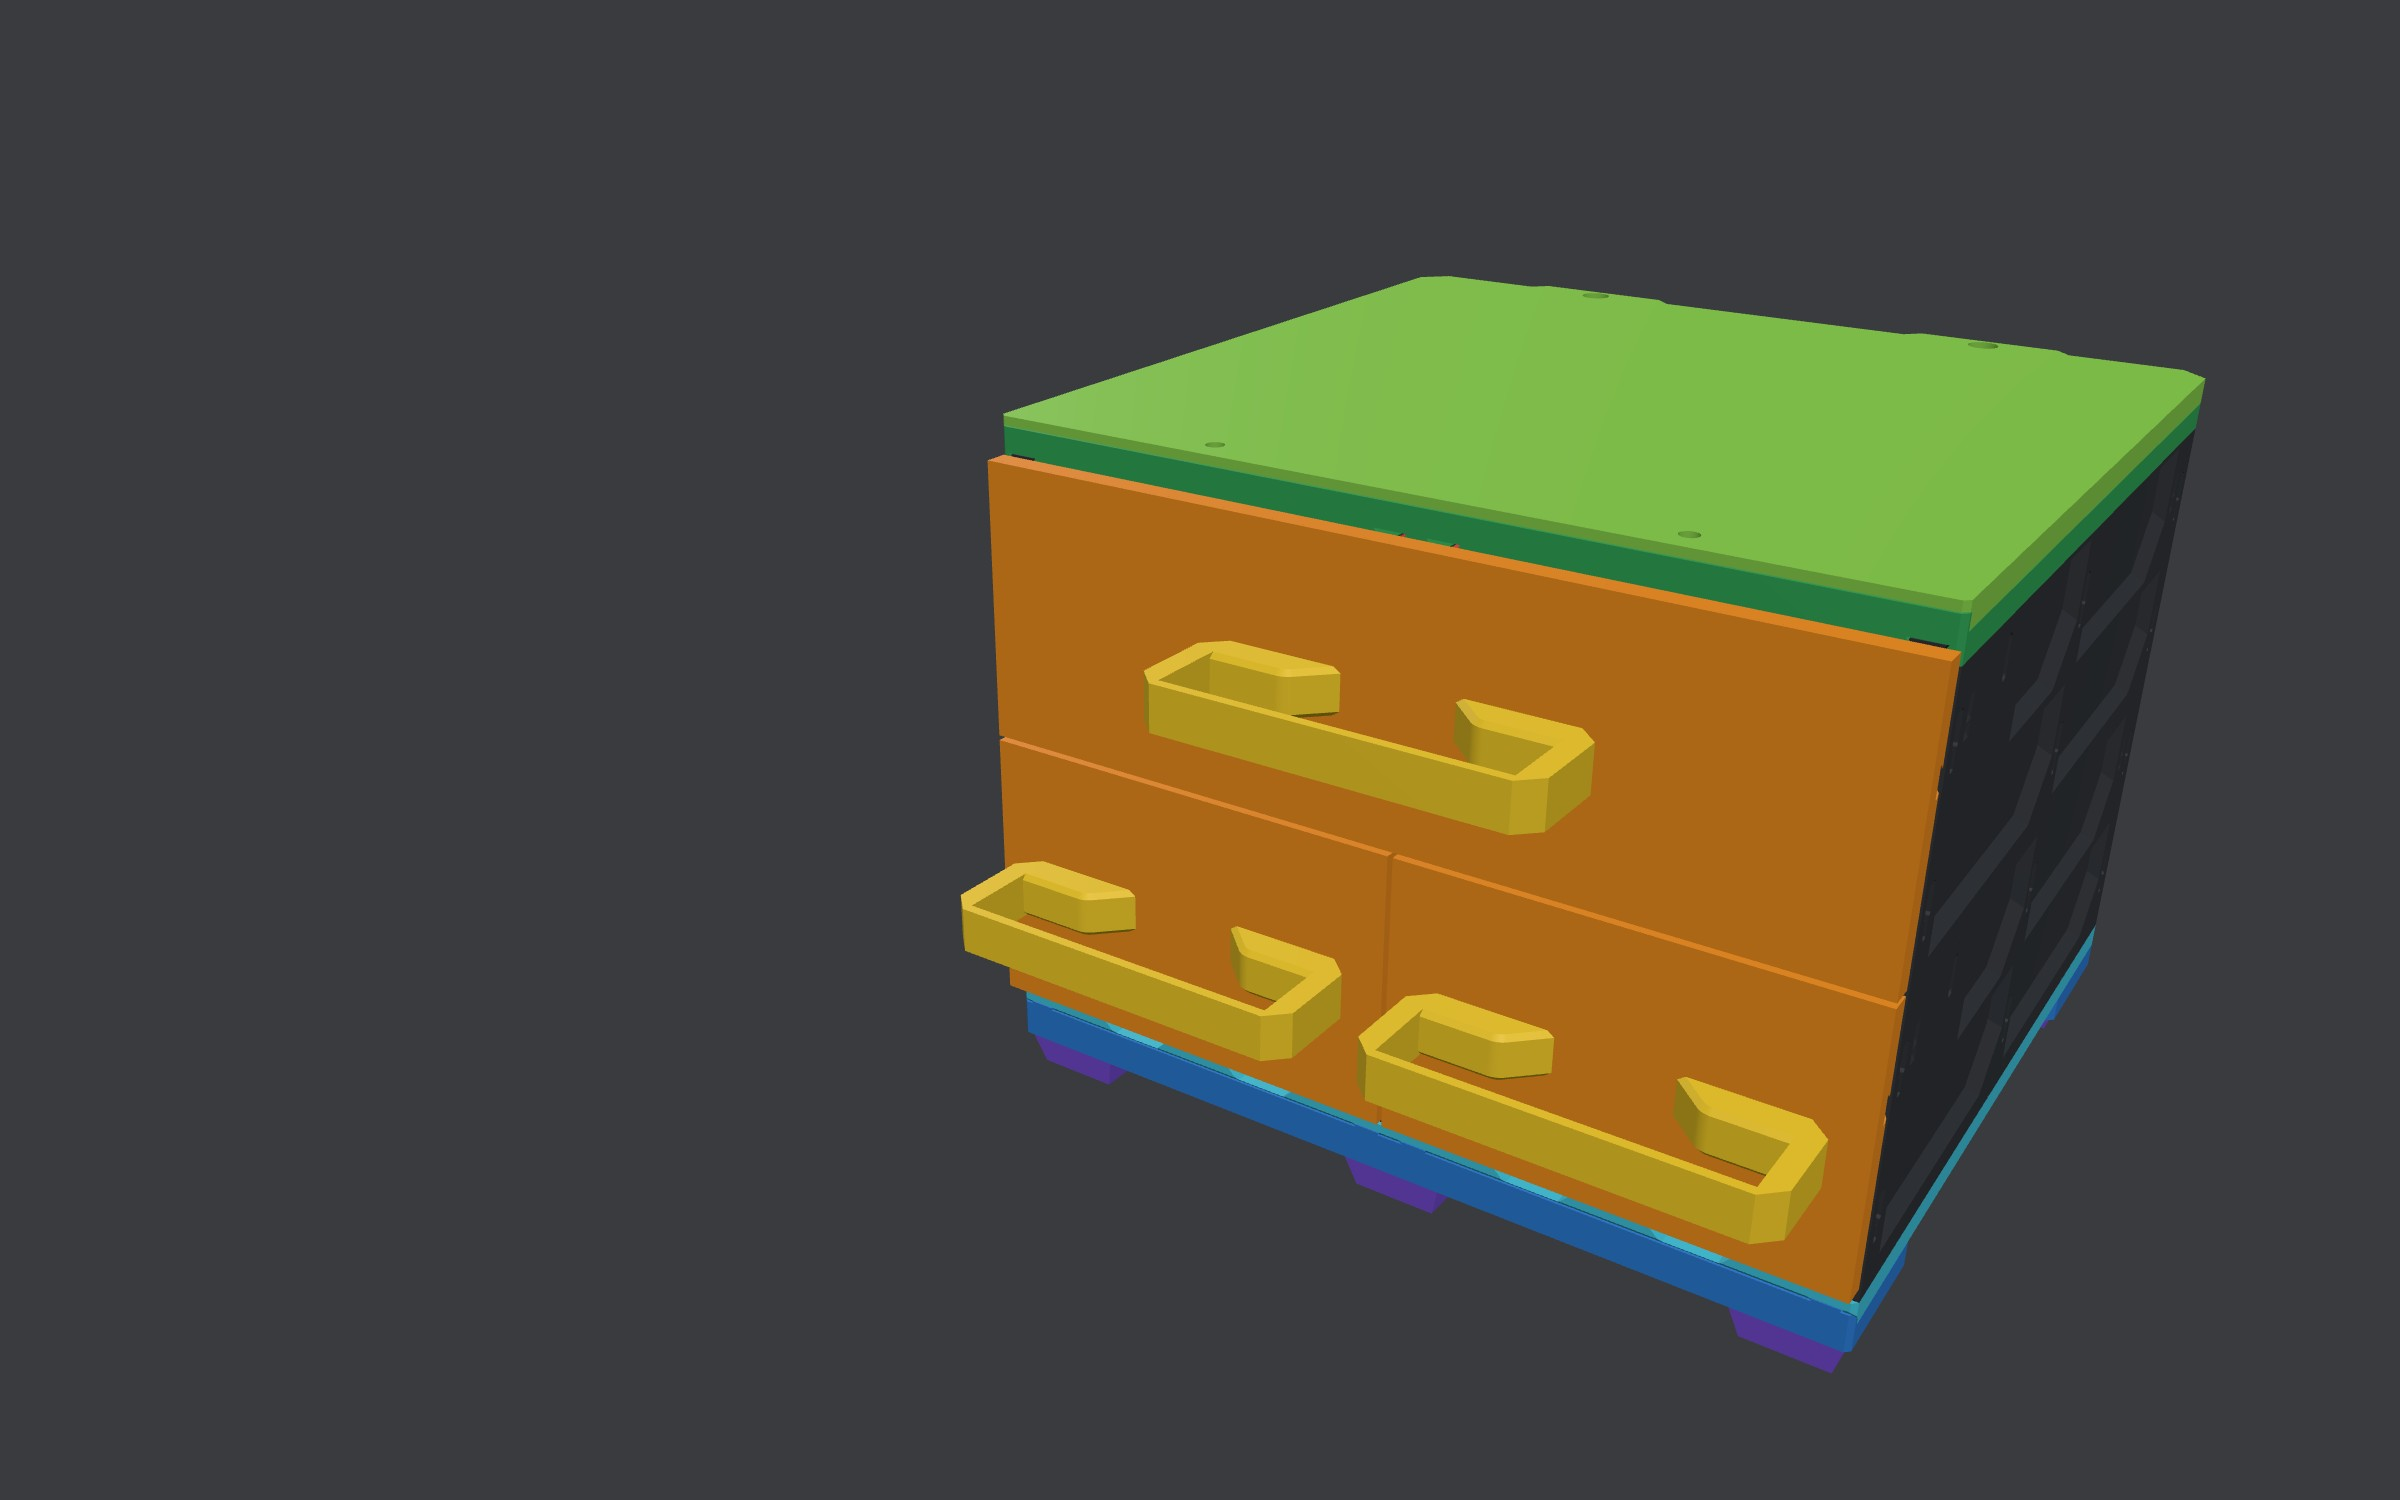
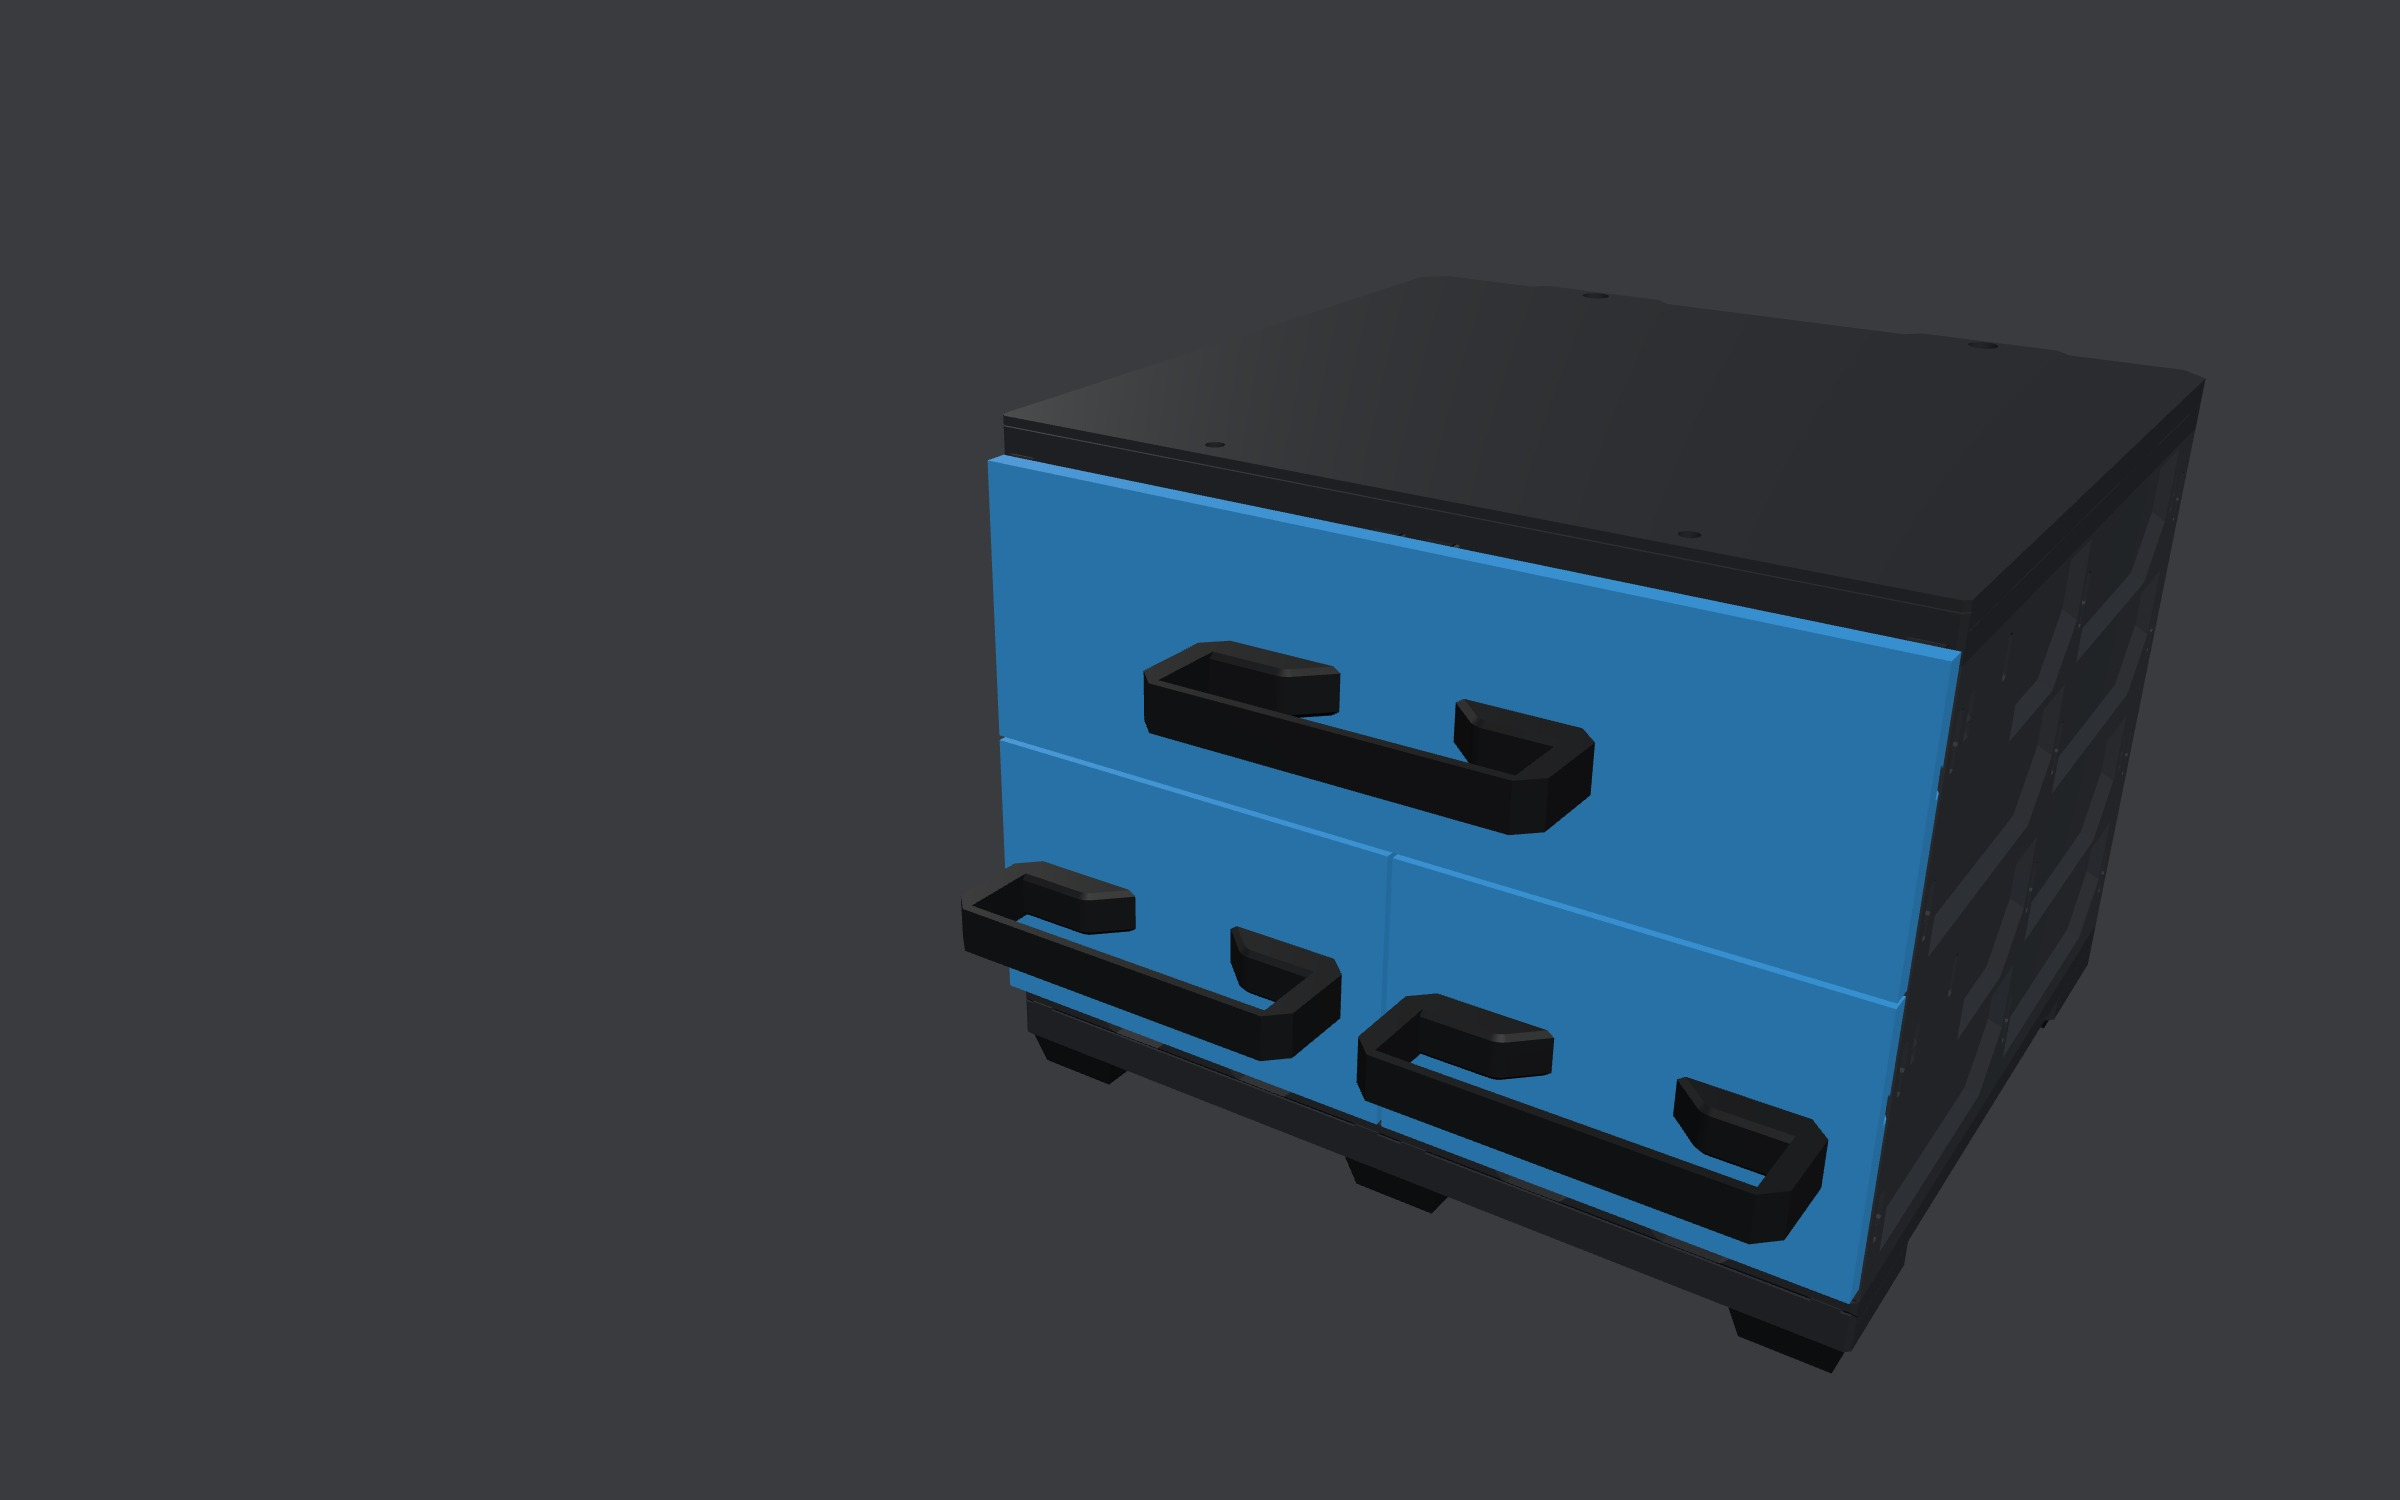
Starter Kits: per-collection card art, mount-ready sections, dimmer card art
Card art (Joey): every kit looked the same at thumbnail size because they all
wore the instruction rainbow. captureShot() now forces a product palette —
faceplates take the COLLECTION color (the planner's lineup palette) and the
rest of the shell goes graphite/black, so 115 grey / 165 blue / 185 orange /
240 green / 270 red are distinguishable at a glance. The shot logic moved into
captureShot() and is exported on the debug hook, so automated captures drive
the exact same path as ?shot=1 instead of a copy that can drift. All seven
renders + banners regenerated.

Card gradient holds further right so the art sits back behind the copy.

Framing: "Official kits" -> "GEN2 starter kits · lay the first brick" — these
are a starting point to expand from, not a badge of authority.

Sections are now MOUNT × SIZE ahead of the under-table/wall kits: rows carry
`mount`, headings read "Tabletop · 2W-2H" once more than one mount exists, and
a mount filter bar appears on the same condition. Mount leads because it's the
planner's question 1 and the builder's real constraint. Verified by injecting
fake wall/under-table rows: 4 filter chips, 5 correctly-ordered sections,
filtering narrows to 2 cards.

Changed region(s): [[0.375, 0.184, 0.9375, 0.92], [0.8438, 0.6133, 0.875, 0.7053]]

diff --git a/builds/index.html b/builds/index.html
@@ -3,8 +3,8 @@
 <head>
 <meta charset="utf-8">
 <meta name="viewport" content="width=device-width, initial-scale=1">
-<title>Official GEN2 Kits — 3D Build Studio</title>
-<meta name="description" content="Preconfigured GEN2 builds with interactive LEGO-style 3D assembly instructions. Pick a kit, follow the steps, make it yours.">
+<title>GEN2 Starter Kits — 3D Build Studio</title>
+<meta name="description" content="Ready-made GEN2 builds with interactive LEGO-style 3D assembly instructions. Print a starter kit, follow the steps, then expand it in the planner.">
 <style>
 /* A secondary page of the GEN2 Planner — the :root tokens, parallax hero,
    brand bar and footer are all mirrored from gen2-planner css/style.css so the
@@ -131,6 +131,15 @@ a { color: var(--accent); }
 }
 .tier-head h2 { font-size: 1.05rem; margin: 0; }
 .tier-head span { font-size: 0.85rem; color: var(--muted); }
+/* mount filter — only rendered once there's more than one mount to pick from */
+.filter-bar { display: flex; gap: 8px; flex-wrap: wrap; margin: 22px 0 2px; }
+.filter-chip {
+  font: inherit; font-size: 0.82rem; font-weight: 600; cursor: pointer;
+  color: var(--muted); background: transparent;
+  border: 1px solid var(--line); border-radius: 999px; padding: 6px 14px;
+}
+.filter-chip:hover { color: var(--text); border-color: var(--muted); }
+.filter-chip.on { color: #1d1e20; background: var(--accent); border-color: var(--accent); }
 .tier-grid {
   display: grid; grid-template-columns: repeat(auto-fill, minmax(480px, 1fr)); gap: 20px;
   align-content: start; margin-top: 14px;
@@ -156,8 +165,10 @@ a { color: var(--accent); }
 .kit-card:hover { transform: translateY(-2px); box-shadow: 0 8px 22px rgba(0,0,0,0.45); }
 .kit-card::before {                     /* legibility gradient over the render */
   content: ""; position: absolute; inset: 0;
+  /* holds all the way to the right edge (…,0.20) so the art sits back a little
+     and the copy always wins — Joey asked for the image to drop in opacity */
   background: linear-gradient(90deg,
-    rgba(44,45,49,0.94) 0%, rgba(44,45,49,0.82) 42%, rgba(44,45,49,0.25) 75%, rgba(44,45,49,0.05) 100%);
+    rgba(44,45,49,0.97) 0%, rgba(44,45,49,0.90) 44%, rgba(44,45,49,0.45) 74%, rgba(44,45,49,0.20) 100%);
   pointer-events: none;
 }
 .kit-body { position: relative; padding: 18px 20px; max-width: 78%; }
@@ -228,9 +239,9 @@ a { color: var(--accent); }
     </span>
   </div>
   <div class="hero-tagline">
-    <h1>Official GEN2 kits &middot; proven builds, ready to print.</h1>
-    <p>Pick a kit and follow the interactive 3D guide step by step - every part, quantity and download link included. Open it in the planner whenever you want to make it your own.</p>
-    <div class="hero-chips"><span>Proven layouts</span><span>Interactive 3D guide</span><span>Full parts list</span></div>
+    <h1>GEN2 starter kits &middot; lay the first brick.</h1>
+    <p>A ready-made build to get you going - follow the interactive 3D guide step by step, with every part, quantity and download link included. Expand it or make it your own in the planner whenever you're ready.</p>
+    <div class="hero-chips"><span>Nothing to design</span><span>Interactive 3D guide</span><span>Full parts list</span></div>
   </div>
 </header>
 
@@ -278,38 +289,80 @@ for (const a of document.querySelectorAll('.planner-link, #brand-home')) a.href 
 // render (builds/img/<id>.jpg). Length colors mirror the planner's
 // GEN2.lengths palette exactly.
 const LENGTH_COLORS = { 59: '#f2f2f2', 115: '#9ea3a8', 165: '#3aa0e8', 185: '#ff8a40', 240: '#3ecfa0', 270: '#e8453c' };
+/* Sections are keyed by MOUNT × SIZE, in that order. Mount is the first thing a
+   builder actually knows ("where will this live?") and it's the planner's own
+   question 1, so it leads; size is the progression inside it. A flat list of
+   (mount, size) sections beats nesting — it stays scannable as under-table and
+   wall kits land, and the mount filter below keeps the page from growing
+   unbounded. Rows missing mount/tier fall into the first of each. */
+const MOUNTS = [
+  { key: 'tabletop',    label: 'Tabletop' },
+  { key: 'under-table', label: 'Under-Table' },
+  { key: 'wall',        label: 'Wall Mount' },
+];
 const TIERS = [
-  { key: 'starter', title: 'Start here', blurb: '2W-2H · your first GEN2 build - 3 drawers, about 42 printed parts.' },
-  { key: 'next',    title: 'Go bigger',  blurb: '3W-2H · the same assembly one column wider - 5 drawers, and the covers stagger brick-style.' },
+  { key: 'starter', label: '2W-2H', blurb: 'Start here - 3 drawers, about 42 printed parts.' },
+  { key: 'next',    label: '3W-2H', blurb: 'One column wider - 5 drawers, and the covers stagger brick-style.' },
 ];
 
+let ALL_KITS = [];
+let mountFilter = 'all';
+
 fetch('index.json').then(r => r.json()).then(kits => {
-  const main = document.getElementById('kits');
-  main.innerHTML = '';
-  if (!Array.isArray(kits) || !kits.length) {
-    main.innerHTML = '<div id="empty">No kits published yet — check back soon!</div>';
-    return;
-  }
-  // group into tiers; anything with an unknown/missing tier lands in the first
-  const groups = TIERS.map(t => ({ ...t, kits: kits.filter(k => (k.tier || TIERS[0].key) === t.key) }))
-    .filter(g => g.kits.length);
-  for (const g of groups) {
-    if (groups.length > 1) {
-      const head = document.createElement('div');
-      head.className = 'tier-head';
-      const h = document.createElement('h2'); h.textContent = g.title;
-      const s = document.createElement('span'); s.textContent = g.blurb;
-      head.append(h, s);
-      main.appendChild(head);
-    }
-    const grid = document.createElement('div');
-    grid.className = 'tier-grid';
-    main.appendChild(grid);
-    renderCards(g.kits, grid);
-  }
+  ALL_KITS = Array.isArray(kits) ? kits : [];
+  render();
 }).catch(() => {
   document.getElementById('kits').innerHTML = '<div id="empty">Couldn’t load the kit list — try refreshing.</div>';
 });
+
+function render() {
+  const main = document.getElementById('kits');
+  main.innerHTML = '';
+  if (!ALL_KITS.length) {
+    main.innerHTML = '<div id="empty">No kits published yet — check back soon!</div>';
+    return;
+  }
+  const mountOf = k => k.mount || MOUNTS[0].key;
+  const present = MOUNTS.filter(m => ALL_KITS.some(k => mountOf(k) === m.key));
+  // the filter only earns its space once there's more than one mount to choose
+  if (present.length > 1) main.appendChild(buildFilter(present));
+
+  const shown = ALL_KITS.filter(k => mountFilter === 'all' || mountOf(k) === mountFilter);
+  for (const m of present) {
+    if (mountFilter !== 'all' && m.key !== mountFilter) continue;
+    for (const t of TIERS) {
+      const group = shown.filter(k => mountOf(k) === m.key && (k.tier || TIERS[0].key) === t.key)
+        .sort((a, b) => (a.length || 0) - (b.length || 0));
+      if (!group.length) continue;
+      const head = document.createElement('div');
+      head.className = 'tier-head';
+      const h = document.createElement('h2');
+      // with a single mount the label would just repeat itself on every heading
+      h.textContent = present.length > 1 ? `${m.label} · ${t.label}` : t.label;
+      const s = document.createElement('span');
+      s.textContent = t.blurb;
+      head.append(h, s);
+      const grid = document.createElement('div');
+      grid.className = 'tier-grid';
+      main.append(head, grid);
+      renderCards(group, grid);
+    }
+  }
+}
+
+function buildFilter(present) {
+  const bar = document.createElement('div');
+  bar.className = 'filter-bar';
+  for (const opt of [{ key: 'all', label: 'All kits' }, ...present]) {
+    const b = document.createElement('button');
+    b.type = 'button';
+    b.className = 'filter-chip' + (mountFilter === opt.key ? ' on' : '');
+    b.textContent = opt.label;
+    b.onclick = () => { mountFilter = opt.key; render(); };
+    bar.appendChild(b);
+  }
+  return bar;
+}
 
 function renderCards(kits, main) {
   for (const k of kits) {

diff --git a/js/main.js b/js/main.js
@@ -3253,12 +3253,32 @@ booted = true;
 // chrome never reaches toDataURL). Repeatable for every future official kit:
 // open ?build=<id>&shot=1, save the download, commit. The render loop's own
 // resize() restores the canvas on the next frame, so the page stays usable.
-if (new URLSearchParams(location.search).get('shot')) {
+// The planner's per-length lineup colors (data.js GEN2.lengths) — card art is
+// tinted with them so the kits don't all look identical across collections.
+const SHOT_LEN_COLORS = { 59: '#f2f2f2', 115: '#9ea3a8', 165: '#3aa0e8', 185: '#ff8a40', 240: '#3ecfa0', 270: '#e8453c' };
+function captureShot() {
   applyState(manifest.steps.length - 1);          // assembled, deterministic
   table.visible = grid.visible = false;
   if (isWallBuild) wall.visible = false;
   if (isUnderTableBuild) surface.visible = false;
   scene.background = new THREE.Color(0x3a3b3f);
+  // Card palette (Joey 2026-07-24): the instruction rainbow made every kit read
+  // the same at thumbnail size. Faceplates take the COLLECTION color and the
+  // rest of the shell goes graphite, so the length is the thing you see first.
+  // Deterministic — it replaces whatever palette the tab happens to be holding.
+  const shotHex = SHOT_LEN_COLORS[parseInt(manifest.collection, 10)];
+  if (shotHex) {
+    const graphite = { name: 'Graphite', hex: '#2b2d31' }, dark = { name: 'Black', hex: '#17181a' };
+    customColors = {
+      Faceplate: { name: 'Collection', hex: shotHex },
+      Handle: dark, Accent: dark, Label: { name: 'White', hex: '#eef0f4' },
+      CoverL: graphite, CoverU: graphite, FootrailL: graphite, FootrailU: graphite,
+      Foot: dark, QuickLock: graphite, Stopper: graphite, Rail: graphite,
+      Drawer: { name: 'Shell', hex: '#3c3f45' },
+    };
+    useCustom = true;
+    applyPalette();
+  }
   const W = 1200, H = 750;                        // 16:10 — the gallery card's aspect
   renderer.setSize(W, H, false);
   camera.aspect = W / H;
@@ -3273,8 +3293,11 @@ if (new URLSearchParams(location.search).get('shot')) {
   camera.position.copy(pos);
   camera.lookAt(target);
   renderer.render(scene, camera);
+  return renderer.domElement.toDataURL('image/jpeg', 0.92);
+}
+if (new URLSearchParams(location.search).get('shot')) {
   const a = document.createElement('a');
-  a.href = renderer.domElement.toDataURL('image/jpeg', 0.92);
+  a.href = captureShot();
   a.download = (OFFICIAL ? OFFICIAL.id : 'build') + '.jpg';
   a.click();
 }
@@ -3325,6 +3348,6 @@ renderer.setAnimationLoop(now => {
 // dev-only hook (mirrors the planner's guarded test-hook convention): ?debug=1
 if (new URLSearchParams(location.search).get('debug')) {
   window.__GEN2_VIEWER__ = { THREE, scene, camera, controls, goTo, applyState, instances, manifest, cinema, updateCinema, cinemaScene, party, confetti, confettiPop, fpFocus, fpEnv,
-    renderer, table, grid, camPos, get buildCenter() { return buildCenter; },
+    renderer, table, grid, camPos, captureShot, get buildCenter() { return buildCenter; },
     get build() { return build; }, regenerate, setSelected, get selectedId() { return selectedId; } };
 }
